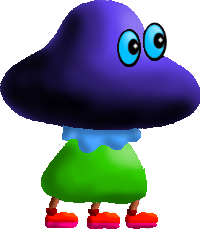
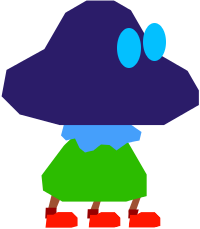
improved graphisms 2

diff --git a/start.js b/start.js
@@ -61,8 +61,8 @@ function Bombe() {
     this.saut = 0;
     this.vit = 3;
     this.img = "bombe";
-    this.sx = 35;
-    this.sy = 40;
+    this.sx = 70;
+    this.sy = 80;
     this.capa = "explode";
     this.IA = "allerRetour";
     this.att = [];
@@ -1124,7 +1124,7 @@ function selection(choixNiveau){
                  {"x":2300,"y":1200,"vx":0,"vy":0,"sens":1,"frame":0,"g":0,"saut":0,"moves":new MageElectro,"img":new Image()},
                  {"x":870,"y":885,"vx":0,"vy":0,"sens":1,"frame":0,"g":0,"saut":0,"moves":new Interrupteur,"img":new Image(),"plate":[404,800,450,ep]},
                  {"x":1900,"y":1000,"vx":0,"vy":0,"sens":1,"frame":0,"g":0,"saut":0,"moves":new Interrupteur,"img":new Image(),"plate":[1100,1000,850,ep]},
-                 {"x":1370,"y":600,"vx":0,"vy":0,"sens":1,"frame":0,"g":0,"saut":0,"moves":new Bombe,"img":new Image()},
+                 {"x":1370,"y":640,"vx":0,"vy":0,"sens":1,"frame":0,"g":0,"saut":0,"moves":new Bombe,"img":new Image()},
                  {"x":1370,"y":1000,"vx":0,"vy":0,"sens":1,"frame":0,"g":0,"saut":0,"moves":new Psychos,"img":new Image()}];
         victoire = [2000,1200,400,400,2000,1550];
         nVictoire = 2;
